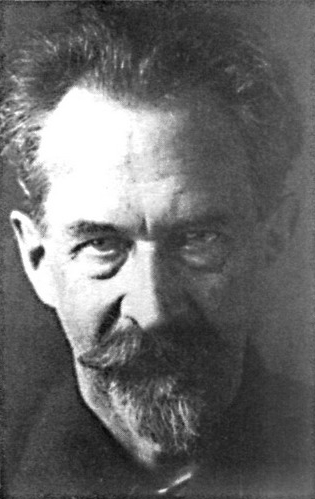
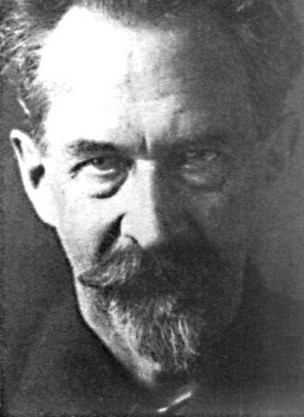
fix: shabunevsky photo

diff --git a/src/locales/architects-data.ts b/src/locales/architects-data.ts
@@ -447,6 +447,83 @@ export class ArchitectsData {
           img: '/assets/works/Shabunevsky/Земская.jpg'
         }
       ]
+    },
+    {
+      id: '8',
+      path: 'shabunevsky',
+      name: 'name',
+      date: 'date',
+      img: 'assets/images/Shabunevsky.jpg',
+      videoId: 'a43rFmrY78c',
+      vita: 'vita',
+      authorOfTheDay: 'false',
+      lng: 'en',
+      geovidgetLink: '-------',
+      searchKey: 'searchKey',
+      birthPlace: 'birthPlace',
+      timelineData: [
+        {
+          date: '1892',
+          text: 'timeline1'
+        },
+        {
+          date: '1897',
+          text: 'timeline2'
+        },
+        {
+          date: '1903',
+          text: 'timeline3'
+        },
+        {
+          date: '1919',
+          text: 'timeline4'
+        },
+        {
+          date: '1924',
+          text: 'timeline5'
+        },
+        {
+          date: '1937',
+          text: 'timeline6'
+        },
+      ],
+      work: [
+        {
+          title: 'worktitle1',
+          width: 52.4333,
+          length: 31.0037,
+          date: '1898',
+          img: '/assets/works/Shabunevsky/Гимназия.jpg'
+        },
+        {
+          title: 'worktitle2',
+          width: 52.4304,
+          length: 31.0110,
+          date: '1901',
+          img: '/assets/works/Shabunevsky/Орловский.jpg'
+        },
+        {
+          title: 'worktitle3',
+          width: 52.4269,
+          length: 31.0137,
+          date: '1910-1912',
+          img: '/assets/works/Shabunevsky/Виленский.jpg'
+        },
+        {
+          title: 'worktitle4',
+          width: 52.4292,
+          length: 31.0062,
+          date: '1909',
+          img: '/assets/works/Shabunevsky/Доктор.jpg'
+        },
+        {
+          title: 'worktitle5',
+          width: 52.4155,
+          length: 31.0096,
+          date: '1915',
+          img: '/assets/works/Shabunevsky/Земская.jpg'
+        }
+      ]
     }
   ];
 }
